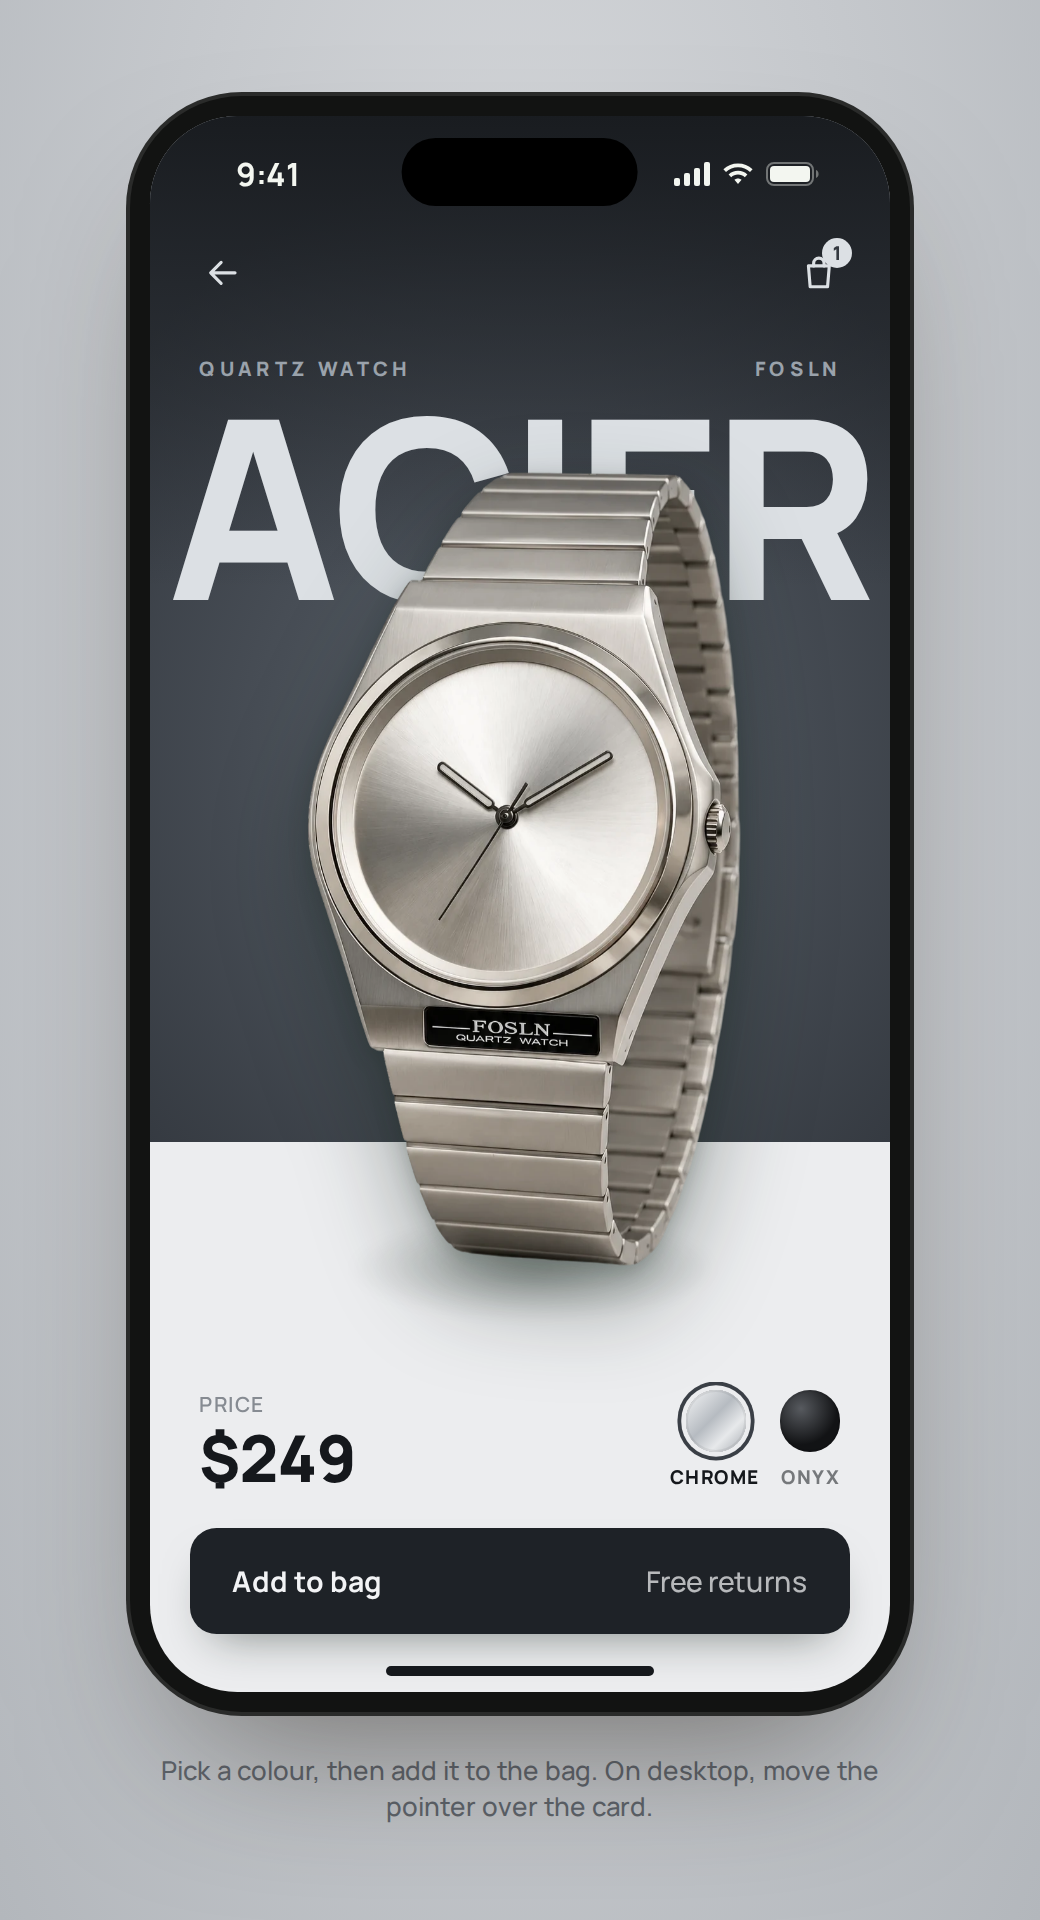
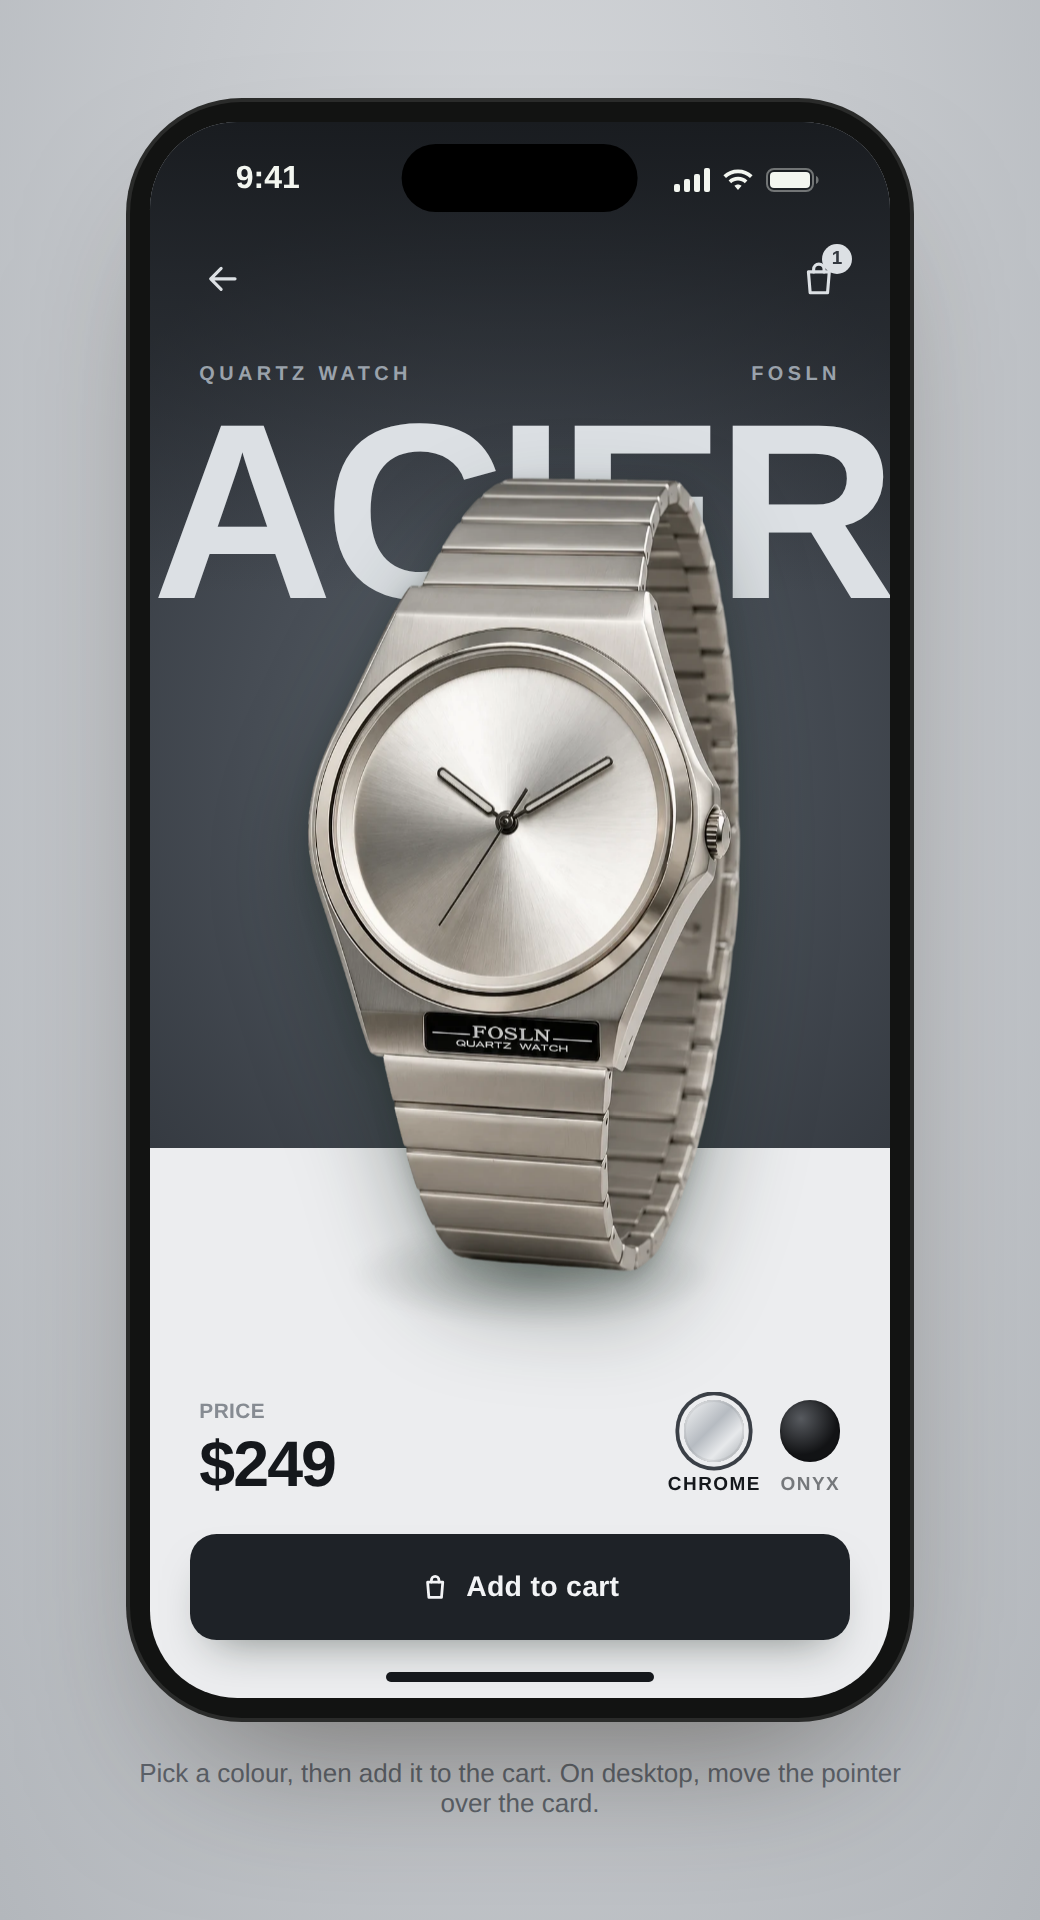
Product card (watch): centred "Add to cart" button, no side note
Drop "Free returns" and make the button one centred "Add to cart" label
with a small cart icon; "Added", "Sold out" and errors centre too. With no
note, an add error now takes the label's place for a few seconds and the
label (icon included) comes back after. A note still works if one is
added: the label moves left for it. Bag wording becomes cart (aria label,
status message). Shopify section: button label defaults to "Add to cart",
the note defaults to empty, and the connector keeps the icon when it
switches between "Add to cart" and "Sold out".

Claude-Session: https://claude.ai/code/session_01USNSbaj4fcY1X4jUF4TLUx

diff --git a/components/product-card-watch/script.js b/components/product-card-watch/script.js
@@ -78,15 +78,18 @@
 
     function updateBag() {
       if (badge) badge.textContent = count > 0 ? count : "";
-      if (bag) bag.setAttribute("aria-label", "Bag, " + count + (count === 1 ? " item" : " items"));
+      if (bag) bag.setAttribute("aria-label", "Cart, " + count + (count === 1 ? " item" : " items"));
     }
 
     var media = card.querySelector(".ui-wcard__media");
     var inner = card.querySelector(".ui-wcard__inner");
     var flying = false;
 
+    // Errors show in the note if there is one, otherwise in place of the label.
     var note = card.querySelector(".ui-wcard__cta-note");
+    var addLabel = card.querySelector(".ui-wcard__cta-add");
     var noteText = note ? note.textContent : "";
+    var labelHTML = "";
     var noteTimer;
 
     // Count the item, bump the badge, flip the button. Runs when the product lands.
@@ -108,7 +111,7 @@
           ], { duration: 460, easing: "ease-out" });
         }
       }
-      if (status) status.textContent = "Added to bag. " + count + (count === 1 ? " item" : " items") + " in your bag.";
+      if (status) status.textContent = "Added to cart. " + count + (count === 1 ? " item" : " items") + " in your cart.";
       cta.classList.add("is-added");
       clearTimeout(addedTimer);
       addedTimer = setTimeout(function () { cta.classList.remove("is-added"); }, 1800);
@@ -120,12 +123,20 @@
 
     // The add failed (sold out, network): say why on the button and shake it.
     function failAdd(message) {
-      message = message || "Couldn't add to bag. Please try again.";
+      message = message || "Couldn't add to cart. Please try again.";
       if (status) status.textContent = message;
+      clearTimeout(noteTimer);
       if (note) {
         note.textContent = message;
-        clearTimeout(noteTimer);
         noteTimer = setTimeout(function () { note.textContent = noteText; }, 2800);
+      } else if (addLabel) {
+        if (!cta.classList.contains("is-error")) labelHTML = addLabel.innerHTML;
+        addLabel.textContent = message;
+        cta.classList.add("is-error");
+        noteTimer = setTimeout(function () {
+          addLabel.innerHTML = labelHTML;
+          cta.classList.remove("is-error");
+        }, 2800);
       }
       if (!reduceMotion.matches && cta.animate) {
         cta.animate([

diff --git a/components/product-card-watch/shopify/ui-wcard-shopify.js b/components/product-card-watch/shopify/ui-wcard-shopify.js
@@ -4,7 +4,7 @@
      data-price and data-available. Picking one updates the hidden variant
      id, the price and the button (it reads "Sold out" and disables when the
      variant is unavailable).
-   - Add to bag adds the selected variant to the real cart through Shopify's
+   - Add to cart adds the selected variant to the real cart through Shopify's
      Cart AJAX API (POST /cart/add.js), while the product flies. The badge
      then shows the real cart count. Errors (sold out, quantity limits) show
      on the button and nothing is counted.
@@ -19,7 +19,7 @@
   function getJSON(url, options) {
     return fetch(url, options).then(function (res) {
       return res.json().then(function (data) {
-        if (!res.ok) throw new Error(data.description || data.message || "Couldn't add to bag. Please try again.");
+        if (!res.ok) throw new Error(data.description || data.message || "Couldn't add to cart. Please try again.");
         return data;
       });
     });
@@ -66,7 +66,7 @@
     var price = card.querySelector(".ui-wcard__price");
     var cta = card.querySelector(".ui-wcard__cta");
     var label = card.querySelector(".ui-wcard__cta-add");
-    var addText = label ? label.textContent : "";
+    var addHTML = label ? label.innerHTML : "";
     var soldOutText = card.getAttribute("data-sold-out-label") || "Sold out";
     var form = card.querySelector("[data-ui-wcard-form]");
 
@@ -76,7 +76,10 @@
       if (price && radio.dataset.price) price.textContent = radio.dataset.price;
       var available = radio.dataset.available !== "false";
       if (cta) cta.disabled = !available;
-      if (label) label.textContent = available ? addText : soldOutText;
+      if (label) {
+        if (available) label.innerHTML = addHTML;
+        else label.textContent = soldOutText;
+      }
     }
 
     card.querySelectorAll(".ui-wcard__swatch input").forEach(function (radio) {

diff --git a/components/product-card-watch/index.html b/components/product-card-watch/index.html
@@ -101,7 +101,7 @@
           <button class="ui-wcard__icon" type="button" aria-label="Back">
             <svg viewBox="0 0 24 24"><path d="M19 12H5M11 6l-6 6 6 6"/></svg>
           </button>
-          <button class="ui-wcard__icon" type="button" aria-label="Bag, 1 item" data-ui-wcard-bag>
+          <button class="ui-wcard__icon" type="button" aria-label="Cart, 1 item" data-ui-wcard-bag>
             <svg viewBox="0 0 24 24"><path d="M6 8h12l-1 12H7L6 8z"/><path d="M9 8V6.5a3 3 0 0 1 6 0V8"/></svg>
             <span class="ui-wcard__badge" aria-hidden="true">1</span>
           </button>
@@ -146,12 +146,13 @@
 
           <button class="ui-wcard__cta" type="button">
             <span class="ui-wcard__cta-labels">
-              <span class="ui-wcard__cta-add">Add to bag</span>
+              <span class="ui-wcard__cta-add">
+                <svg viewBox="0 0 24 24"><path d="M6 8h12l-1 12H7L6 8z"/><path d="M9 8V6.5a3 3 0 0 1 6 0V8"/></svg>Add to cart
+              </span>
               <span class="ui-wcard__cta-done" aria-hidden="true">
                 <svg viewBox="0 0 16 16"><path d="M3 8.5l3.2 3.2L13 5"/></svg>Added
               </span>
             </span>
-            <span class="ui-wcard__cta-note">Free returns</span>
           </button>
           <p class="ui-wcard__sr" role="status" aria-live="polite" data-ui-wcard-status></p>
         </div>
@@ -161,7 +162,7 @@
 
     <span class="phone__home" aria-hidden="true"></span>
   </div>
-  <p class="hint">Pick a colour, then add it to the bag. On desktop, move the pointer over the card.</p>
+  <p class="hint">Pick a colour, then add it to the cart. On desktop, move the pointer over the card.</p>
 </main>
 <script src="script.js"></script>
 </body>

diff --git a/components/product-card-watch/style.css b/components/product-card-watch/style.css
@@ -369,7 +369,7 @@
 .ui-wcard__cta {
   position: relative;
   display: flex;
-  justify-content: space-between;
+  justify-content: center;
   align-items: center;
   width: 100%;
   height: calc(56 * var(--u));
@@ -381,6 +381,7 @@
   background: var(--ui-wcard-cta-bg);
   color: var(--ui-wcard-cta-fg);
   font: 700 calc(15 * var(--u)) / 1 var(--ui-wcard-font);
+  letter-spacing: 0.01em;
   cursor: pointer;
   box-shadow: 0 calc(12 * var(--u)) calc(24 * var(--u)) calc(-12 * var(--u)) rgba(20, 32, 24, 0.5);
   transition: transform 0.2s ease, box-shadow 0.2s ease;
@@ -397,13 +398,22 @@
   box-shadow: none;
 }
 
+/* One centred label. A note (optional, e.g. from the Shopify section)
+   moves the label left and sits on the right. */
+.ui-wcard__cta:has(.ui-wcard__cta-note) { justify-content: space-between; }
+
 .ui-wcard__cta-labels {
   position: relative;
   display: grid;
+  justify-items: center;
   flex: none;
-  text-align: left;
+  max-width: 100%;
+  text-align: center;
   white-space: nowrap;
 }
+
+/* An error message takes the label's place and may wrap. */
+.ui-wcard__cta.is-error .ui-wcard__cta-labels { flex: 1 1 auto; white-space: normal; line-height: 1.25; }
 
 .ui-wcard__cta-labels > span {
   grid-area: 1 / 1;
@@ -415,6 +425,7 @@
 
 .ui-wcard__cta-done { opacity: 0; transform: translateY(110%); }
 
+.ui-wcard__cta-add svg,
 .ui-wcard__cta-done svg {
   width: calc(16 * var(--u));
   height: calc(16 * var(--u));

diff --git a/components/product-card-watch/README.md b/components/product-card-watch/README.md
@@ -1,9 +1,9 @@
 # Product Card (watch)
 
-The watch edition of the [product card](../product-card/), for the FOSLN ACIER quartz watch. It has the same layout, build-in, colourway switching and fly-to-bag as the original, set up for a tall product. A brushed-steel stage holds a giant "ACIER", the watch stands in front of it and crosses into a cool off-white footer, and the footer carries the price, two dial swatches and a full-width "Add to bag" button.
+The watch edition of the [product card](../product-card/), for the FOSLN ACIER quartz watch. It has the same layout, build-in, colourway switching and fly-to-cart as the original, set up for a tall product. A brushed-steel stage holds a giant "ACIER", the watch stands in front of it and crosses into a cool off-white footer, and the footer carries the price, two dial swatches and a full-width "Add to cart" button.
 
 - **Layout:**
-  - Top row: back button, plus a bag button with a count badge.
+  - Top row: back button, plus a cart button with a count badge.
   - Spec line: "Quartz watch" on the left, the brand "FOSLN" on the right.
   - Wordmark: "ACIER", edge to edge, sitting behind the watch. It's sized for five letters.
   - Watch: stands over the lower half of the wordmark, from the stage into the footer, over a soft contact shadow.
@@ -13,8 +13,9 @@ The watch edition of the [product card](../product-card/), for the FOSLN ACIER q
   - **Onyx:** a near-black stage and the black sunray dial.
 
   Picking one crossfades the watch photo and retints the stage, wordmark and button.
-- **Add to bag:** the watch lifts off the stage, shrinks and arcs into the bag icon in about 0.76s. Because it's tall, it shrinks by its height, so it stays inside the card. When it lands:
-  - the bag icon gives a little wobble
+- **Button:** one centred "Add to cart" label with a small cart icon, and no side note. After an add it reads "✓ Added". If the add fails, the error message takes the label's place for a few seconds. When the dial is sold out it reads "Sold out" and dims. A short note on the right (such as "Free returns") is still possible: add a `.ui-wcard__cta-note` span, and the label moves left to make room.
+- **Add to cart:** the watch lifts off the stage, shrinks and arcs into the cart icon in about 0.76s. Because it's tall, it shrinks by its height, so it stays inside the card. When it lands:
+  - the cart icon gives a little wobble
   - the badge counts up with a bump
   - the label flips to "✓ Added"
   - a screen-reader status announces it
@@ -23,7 +24,7 @@ The watch edition of the [product card](../product-card/), for the FOSLN ACIER q
   0.23s after landing, the watch regrows in place from a soft blur. Clicks during the flight are ignored. With reduced motion turned on, the item is counted straight away and nothing flies.
 - **Motion:**
   - On first view, everything builds left to right with one move: each piece shoots out from behind the one before it, staying hidden until it clears it, then overshoots a touch, squashes and locks in. Each lock sets off the next piece, one every 95ms (tune it with `--ui-wcard-beat`).
-  - The order is: A, C, I, E, R, with the spec line alongside; then price, Chrome, Onyx and Add to bag; and finally the watch drops in. The script counts the letters and swatches, so a different word or more colourways keep the order.
+  - The order is: A, C, I, E, R, with the spec line alongside; then price, Chrome, Onyx and Add to cart; and finally the watch drops in. The script counts the letters and swatches, so a different word or more colourways keep the order.
   - The word gives a small recoil on each letter's hit.
   - The watch then floats gently, with its shadow breathing.
   - With a mouse, the watch drifts slightly as the pointer moves while the wordmark stays still.
@@ -38,7 +39,7 @@ Plain HTML, CSS and vanilla JS, no dependencies. Classes are prefixed `ui-wcard`
 | --- | --- |
 | `index.html` | Demo page: the card inside a phone frame with a status bar |
 | `style.css` | Component styles and the Chrome and Onyx themes |
-| `script.js` | Swatches, add to bag, entrance and pointer parallax |
+| `script.js` | Swatches, add to cart, entrance and pointer parallax |
 | `images/acier-*.webp` | Transparent watch cut-outs, chrome and black dial (687 × 1253) |
 | `shopify/ui-wcard.liquid` | Shopify section: the card for a real product, with one block per colourway |
 | `shopify/ui-wcard-shopify.js` | Shopify connection: variants, real add to cart, header cart count |
@@ -52,7 +53,7 @@ Plain HTML, CSS and vanilla JS, no dependencies. Classes are prefixed `ui-wcard`
 
     <header class="ui-wcard__bar">
       <button class="ui-wcard__icon" type="button" aria-label="Back">…</button>
-      <button class="ui-wcard__icon" type="button" aria-label="Bag, 1 item" data-ui-wcard-bag>
+      <button class="ui-wcard__icon" type="button" aria-label="Cart, 1 item" data-ui-wcard-bag>
         …<span class="ui-wcard__badge" aria-hidden="true">1</span>
       </button>
     </header>
@@ -87,10 +88,9 @@ Plain HTML, CSS and vanilla JS, no dependencies. Classes are prefixed `ui-wcard`
       </div>
       <button class="ui-wcard__cta" type="button">
         <span class="ui-wcard__cta-labels">
-          <span class="ui-wcard__cta-add">Add to bag</span>
+          <span class="ui-wcard__cta-add"><svg viewBox="0 0 24 24">…</svg>Add to cart</span>
           <span class="ui-wcard__cta-done" aria-hidden="true"><svg>…</svg>Added</span>
         </span>
-        <span class="ui-wcard__cta-note">Free returns</span>
       </button>
       <p class="ui-wcard__sr" role="status" aria-live="polite" data-ui-wcard-status></p>
     </div>
@@ -111,7 +111,7 @@ Colours live in custom properties on `.ui-wcard`. Each colourway overrides the s
   --ui-wcard-stage-top: #070809; /* ombré: the top third darkens to this */
   --ui-wcard-title: #ECECEC;     /* wordmark, icons, badge */
   --ui-wcard-specs: #8C8F94;     /* spec line */
-  --ui-wcard-cta-bg: #0D0E10;    /* Add to bag */
+  --ui-wcard-cta-bg: #0D0E10;    /* Add to cart */
   --ui-wcard-ring: #111214;      /* selected swatch ring */
 }
 ```
@@ -148,8 +148,8 @@ window.uiWcardAdd = function ({ card, colorway }) {
 };
 ```
 
-- **The badge waits for it.** If the request is still running when the product reaches the bag, the count goes up when it resolves.
-- **On failure,** reject with an `Error`. Its message replaces the button note for a few seconds, the button gives a short shake, the product comes back and nothing is counted.
+- **The badge waits for it.** If the request is still running when the product reaches the cart icon, the count goes up when it resolves.
+- **On failure,** reject with an `Error`. Its message takes the place of the button label for a few seconds, the button gives a short shake, the product comes back and nothing is counted.
 - **Without the hook,** the count simply goes up by one.
 
 A disabled button (`disabled` attribute) ignores clicks, and the card dims it.
@@ -170,18 +170,18 @@ The `shopify/` folder turns the card into a theme section for a real product.
    - its card colours: stage, ombré, wordmark, spec line, button and ring
 
    The preset comes with Chrome and Onyx. Values without a block use the theme's swatch colour, the variant image and the Chrome card colours. Products without a colour option show one image and no swatches.
-5. **Text.** The settings cover the wordmark, spec line, price label, button label, "Added", "Sold out" and the button note. The wordmark defaults to the first word of the product title. Short words of 3–5 letters fill the card best.
+5. **Text.** The settings cover the wordmark, spec line, price label, button label, "Added", "Sold out" and an optional button note (empty by default, which keeps the label centred). The wordmark defaults to the first word of the product title. Short words of 3–5 letters fill the card best.
 
 **What the connection does:**
 - Picking a swatch selects that colour's variant, updates the price, and shows "Sold out" (and disables the button) when it's unavailable.
-- Add to bag posts to Shopify's Cart AJAX API (`/cart/add.js`) while the product flies. The badge then shows the real cart count.
+- Add to cart posts to Shopify's Cart AJAX API (`/cart/add.js`) while the product flies. The badge then shows the real cart count.
 - Shopify's errors, such as "All 1 Acier - Onyx are in your cart.", show on the button.
 - It refreshes a Dawn-style `#cart-icon-bubble` in the theme header and fires `ui-wcard:cart` on `document` with `{ cart }`, for themes that refresh their cart drawer some other way.
 - Without JavaScript, the button is a normal product form submit.
 
 **Limits:**
 - The swatches handle one option. On products with more options, such as size, each colour adds its first available variant.
-- The bag icon links to `/cart`.
+- The cart icon links to `/cart`.
 - The back button goes back if the visitor came from the store, otherwise to the product's first collection.
 
 ## Product images

diff --git a/README.md b/README.md
@@ -16,7 +16,7 @@ Reusable UI components in plain HTML, CSS and vanilla JS, ready to drop into any
 | [Number roll](components/number-roll/) | Odometer-style digit strips that roll through every number in between, with per-column stagger and selectable easing |
 | [Numeric text (React)](components/numeric-text-react/) | React component: changed digits roll as an odometer, with an optional motion blur that follows the digit's speed |
 | [Product card](components/product-card/) | Editorial product hero: giant wordmark, a floating cut-out over a two-tone stage, colourway swatches that retint the card, and an animated Add to bag. Includes a Shopify section |
-| [Product card (watch)](components/product-card-watch/) | The product card set up for a watch: a giant "ACIER" on a brushed-steel stage, the FOSLN quartz watch standing in front, Chrome and Onyx dial swatches, and the same build-in and fly-to-bag. Includes a Shopify section |
+| [Product card (watch)](components/product-card-watch/) | The product card set up for a watch: a giant "ACIER" on a brushed-steel stage, the FOSLN quartz watch standing in front, Chrome and Onyx dial swatches, a centred "Add to cart" button, and the same build-in and fly-to-cart. Includes a Shopify section |
 | [Profile card](components/profile-card/) | Editorial coach profile: a giant two-line name behind a cut-out portrait, a bracketed stat on the shirt, and a split "Book a session" button |
 | [Chef card](components/chef-card/) | The profile card rebranded for Dine In's Brooke Silk: gold on Dine In green, with her four awards on the jacket, her Google rating and a "Book an experience" button |
 | [Animated theme toggler](components/theme-toggler/) | Light/dark switch where the new theme grows out of the button as a circle, using the View Transitions API. A plain-JS rebuild of Magic UI's React component |
